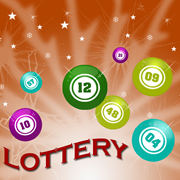
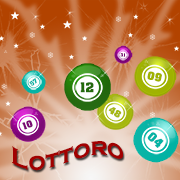
new

diff --git a/www/js/controllers.js b/www/js/controllers.js
@@ -2061,16 +2061,15 @@ app.run(function() {
         var new_ball = $scope.tickets.ticket[ticket_row].normal_ball[i_normal_ball];
         //current ball
         var error = "";
-        if (new_ball) {
-            if (!($scope.data.normal_number_min <= new_ball && new_ball <= $scope.data.normal_number_max)) //validate 2
+        if (new_ball || new_ball == 0) {
+            if (new_ball==0||!($scope.data.normal_number_min <= new_ball && new_ball <= $scope.data.normal_number_max)) //validate 2
                 error = "Enter normal number from " + $scope.data.normal_number_min + " to " + $scope.data.normal_number_max + ".";
         }
         //checking normal balls
         for (var i_normal = 0; i_normal < $scope.data.count_normal_number && error == ""; i_normal++) {
             var new_ball = $scope.tickets.ticket[ticket_row].normal_ball[i_normal];
-            if (!new_ball) continue;
-            else {
-                if (!($scope.data.normal_number_min <= new_ball && new_ball <= $scope.data.normal_number_max)) //validate 2
+            if (new_ball || new_ball == 0) {
+                if (new_ball==0||!($scope.data.normal_number_min <= new_ball && new_ball <= $scope.data.normal_number_max)) //validate 2
                     error = "Enter normal number from " + $scope.data.normal_number_min + " to " + $scope.data.normal_number_max + ".";
             }
             for (var j_normal = i_normal + 1; j_normal < $scope.data.count_normal_number && error == ""; j_normal++) {
@@ -2084,9 +2083,8 @@ app.run(function() {
         //checking power number
         for (var i_power = 0; i_power < $scope.data.count_power_number && error == ""; i_power++) {
             var new_ball = $scope.tickets.ticket[ticket_row].power_ball[i_power];
-            if (!new_ball) continue;
-            else {
-                if (!($scope.data.power_number_min <= new_ball && new_ball <= $scope.data.power_number_max)) //validate 2
+            if (new_ball || new_ball == 0) {
+                if (new_ball==0||!($scope.data.power_number_min <= new_ball && new_ball <= $scope.data.power_number_max)) //validate 2
                     error = "Enter power number from " + $scope.data.power_number_min + " to " + $scope.data.power_number_max + ".";
             }
             for (var j_power = i_power + 1; j_power < $scope.data.count_power_number && error == ""; j_power++) {
@@ -2104,16 +2102,15 @@ app.run(function() {
         var new_ball = $scope.tickets.ticket[ticket_row].power_ball[i_power_number];
         //current ball
         var error = "";
-        if (new_ball) {
-            if (!($scope.data.power_number_min <= new_ball && new_ball <= $scope.data.power_number_max)) //validate 2
+        if (new_ball || new_ball == 0) {
+            if (new_ball==0||!($scope.data.power_number_min <= new_ball && new_ball <= $scope.data.power_number_max)) //validate 2
                 error = "Enter power number from " + $scope.data.power_number_min + " to " + $scope.data.power_number_max + ".";
         }
         //checking power number
         for (var i_power = 0; i_power < $scope.data.count_power_number && error == ""; i_power++) {
             var new_ball = $scope.tickets.ticket[ticket_row].power_ball[i_power];
-            if (!new_ball) continue;
-            else {
-                if (!($scope.data.power_number_min <= new_ball && new_ball <= $scope.data.power_number_max)) //validate 2
+            if (new_ball || new_ball == 0) {
+                if (new_ball==0||!($scope.data.power_number_min <= new_ball && new_ball <= $scope.data.power_number_max)) //validate 2
                     error = "Enter power number from " + $scope.data.power_number_min + " to " + $scope.data.power_number_max + ".";
             }
             for (var j_power = i_power + 1; j_power < $scope.data.count_power_number && error == ""; j_power++) {
@@ -2127,9 +2124,8 @@ app.run(function() {
         //checking normal balls
         for (var i_normal = 0; i_normal < $scope.data.count_normal_number && error == ""; i_normal++) {
             var new_ball = $scope.tickets.ticket[ticket_row].normal_ball[i_normal];
-            if (!new_ball) continue;
-            else {
-                if (!($scope.data.normal_number_min <= new_ball && new_ball <= $scope.data.normal_number_max)) //validate 2
+            if (new_ball || new_ball == 0) {
+                if (new_ball==0||!($scope.data.normal_number_min <= new_ball && new_ball <= $scope.data.normal_number_max)) //validate 2
                     error = "Enter normal number from " + $scope.data.normal_number_min + " to " + $scope.data.normal_number_max + ".";
             }
             for (var j_normal = i_normal + 1; j_normal < $scope.data.count_normal_number && error == ""; j_normal++) {
@@ -2144,6 +2140,8 @@ app.run(function() {
         $scope.tickets.ticket[ticket_row].error = error;
     }
     $scope.is_disable_buy = function() {
+        if (obj_keyboard.is_show)
+            return true;
         for (var i = 0; i < $scope.tickets.count; i++) {
             if ($scope.tickets.ticket[i].error) return true;
             for (var i_normal = 0; i_normal < $scope.data.count_normal_number; i_normal++) {
@@ -2204,8 +2202,12 @@ app.run(function() {
         for (var i_normal = 0; i_normal < $scope.data.count_normal_number; i_normal++) $scope.tickets.ticket[ticket_row].normal_ball[i_normal] = Number(random_normal[i_normal]);
         var random_power = core.random_many_number($scope.data.power_number_min, $scope.data.power_number_max, $scope.data.count_power_number, true, true);
         for (var i_power = 0; i_power < $scope.data.count_power_number; i_power++) $scope.tickets.ticket[ticket_row].power_ball[i_power] = Number(random_power[i_power]);
+        for (var i = $scope.tickets.ticket.length - 1; i >= 0; i--) {
+            $scope.tickets.ticket[i].error  = null;
+        };
     }
     $scope.add_more_ticket = function(count_ticket) {
+        obj_keyboard.is_show = false;
         var l = $scope.tickets.count - $scope.tickets.ticket.length;
         //8 10
         if (l < 0) {
@@ -2230,6 +2232,12 @@ app.run(function() {
             };
         }
     }
+
+    $scope.showKeyboardSelectTicket = function()
+    {
+         obj_keyboard.is_show = true;
+    }
+
     $scope.clear_all = function() {
         for (var i = 0; i < $scope.tickets.count; i++) {
             $scope.clear(i);

diff --git a/www/js/config/languages.js b/www/js/config/languages.js
@@ -45,7 +45,7 @@ window.languages = {
         "cvv_code" : "CVV Code",
         "close": "Close",
         "choose_card_type" : "Choose Card Type",
-        "choose_lottery_date": "Choose Lottery Date",
+        "choose_lottery_date": "Choose Lottoro Date",
         "choose_time_expiration": "Choose Time Expiration",
         "choose_rate" : "Choose Rate For This Game",
         "cancel" : "Cancel",
@@ -120,8 +120,8 @@ window.languages = {
 //------------------------ L ------------------------
         "last_drawing": "Last Drawing",
         "list_friend" : "List Friends",
-        "lottery_draw": "Lottery Draw",
-        "lottery": "Lottery",
+        "lottery_draw": "Lottoro Draw",
+        "lottery": "Lottoro",
         "login_title": "Log in",
         "login": "Login",
         "log_in": "Log In",

diff --git a/www/js/config/constants.js b/www/js/config/constants.js
@@ -24,7 +24,7 @@ window.is_device = window.cordova;
 window.forum_url = "http://" + window.server_ip + ":80/phpbb";
 /** ================ Application Information ================== **/
 window.version = 2;
-window.version_application = "2.0.260";	//It will be updated by config.xml
+window.version_application = "2.0.268";	//It will be updated by config.xml
 /** ================ Database ================== **/
 window.database = {
     name: '_abcv_kootoro_app',

diff --git a/www/js/class/lottery_draw_tickets.js b/www/js/class/lottery_draw_tickets.js
@@ -106,7 +106,7 @@ var lottery_draw_tickets = {
 		};
 		this.draw_number(obj.normal_number, "normal_number", obj_info_kin);
 		this.draw_number(obj.power_number, "power_number", obj_info_kin);
-		var barcode = "LOTTERY - ";
+		var barcode = "LOTTORO - ";
 		var normal_number = obj.normal_number.replace(/\|/g, " ");
 		barcode += normal_number + " - ";
 		var power_number = obj.power_number.replace(/\|/g, " ");

diff --git a/www/js/class/lottery_draw_tickets.old.js b/www/js/class/lottery_draw_tickets.old.js
@@ -99,7 +99,7 @@ var lottery_draw_tickets = {
 		};
 		this.draw_number(obj.normal_number, "normal_number", obj_info_kin);
 		this.draw_number(obj.power_number, "power_number", obj_info_kin);
-		var barcode = "LOTTERY - ";
+		var barcode = "LOTTORO - ";
 		var normal_number = obj.normal_number.replace(/\|/g, " ");
 		barcode += normal_number + " - ";
 		var power_number = obj.power_number.replace(/\|/g, " ");

diff --git a/www/js/class/lottery_draw_tickets_v2.js b/www/js/class/lottery_draw_tickets_v2.js
@@ -109,7 +109,7 @@ var lottery_draw_tickets_v2 = {
         }
         this.draw_number(obj.normal_ball, "normal_number", obj_info_kin);
         this.draw_number(obj.power_ball, "power_number", obj_info_kin);
-        var barcode = "LOTTERY - ";
+        var barcode = "LOTTORO - ";
         for (var i = 0; i < obj.normal_ball.length; i++) {
             if (!obj.normal_ball[i])
                 continue;

diff --git a/www/index.html b/www/index.html
@@ -7,7 +7,7 @@
     <meta http-equiv="Content-Type" content="text/html;charset=utf-8">
     <meta http-equiv="X-UA-Compatible" content="IE=edge" >
       
-    <title>Kootoro - Lottery</title>
+    <title>Kootoro - Lottoro</title>
 
     <link href="lib/ionic/css/ionic.css" rel="stylesheet">
     <link href="css/style.css" rel="stylesheet">
